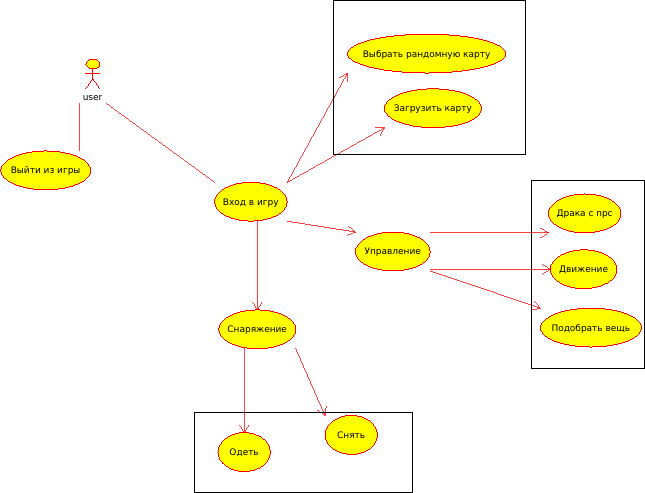
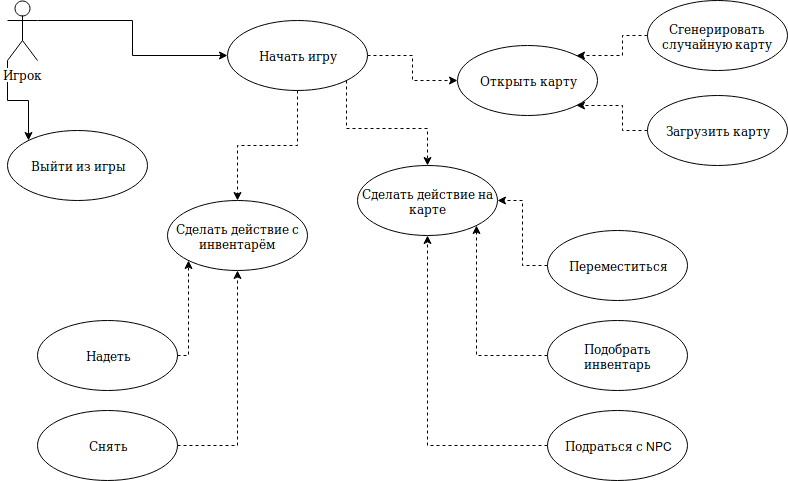
update: useCase & component diagram

diff --git a/docs/README.md b/docs/README.md
@@ -1,12 +1,13 @@
 # Документация игры Roguelike
+
 ## Команда
 - Рябушев Антон
 - Артемьева Ирина
 
-## Общие сведения
-Жанр компьютерных игр, назван в честь игры Rogue, 1980 года выхода
 
-Характеризуется:
+## Общие сведения о системе
+Компьютерная игра в жанре RogueLike.
+Жанр характеризуется:
 - Простой тайловой или консольной графикой
 - Активным использованием случайной генерации
 - Перманентной смертью персонажа и невозможностью загрузить предыдущее сохранение
@@ -17,30 +18,40 @@
 ## Architectural drivers
 
 ### Функциональные требования
-- Персонаж игрока, способный перемещаться по карте,
-управляемый с клавиатуры
-- Карта обычно генерируется, но для некоторых уровней грузится
-из файла
-- Характеристики — здоровье, сила атаки и т.д.
-- Экспа и уровни персонажа, с ростом уровня повышаются
-характеристики
-- Инвентарь персонажа, включающий элементы, влияющие на его
-характеристики, которые можно надеть и снять
-- Несколько разных видов мобов, способных перемещаться по
-карте
-- Боевая система — движущиеся объекты, пытающиеся занять
-одну клетку карты, атакуют друг друга
+- Персонаж игрока способен перемещается по карте; управление с клавиатуры
+- Карта генерируется "на лету", но может грузиться и из файла
+- Характеристики:
+  - здоровье
+  - сила атаки
+  - количество монет
+  - XP
+  - уровень
+- Персонаж может использовать инвентарь для временного изменения своих характеристик; инвентарь:
+  - броня/одежда/обувь
+  - оружие
+  - артефакты
+  - питомец
+- Есть несколько видов мобов, способных перемещаться по карте
+- Боевая система: движущиеся объекты, пытающиеся занять одну клетку карты, атакуют друг друга
+
 ### Бизнес-ограничения
 - Маленькая команда
 - Отсутствие финансовой поддержки
-- На каждом участнике команды дополнительная нагрузка по учебе.
+- На каждом участнике команды дополнительная нагрузка по учебе
 
 ### Качественные характеристики системы
 - Скорость разработки привыше всего!
 
+
 ## Роли и случаи использования
 ![useCaseDiagram](./useCaseDiagram.png)
+
+
 ## Композиция (диаграмма компонентов)
 ![componentDiagram](./componentDiagram.png)
+
+
 ## Логическая структура (диаграмма классов)
+
+
 ## Взаимодействия и состояния (диаграммы последовательностей и конечных автоматов)
